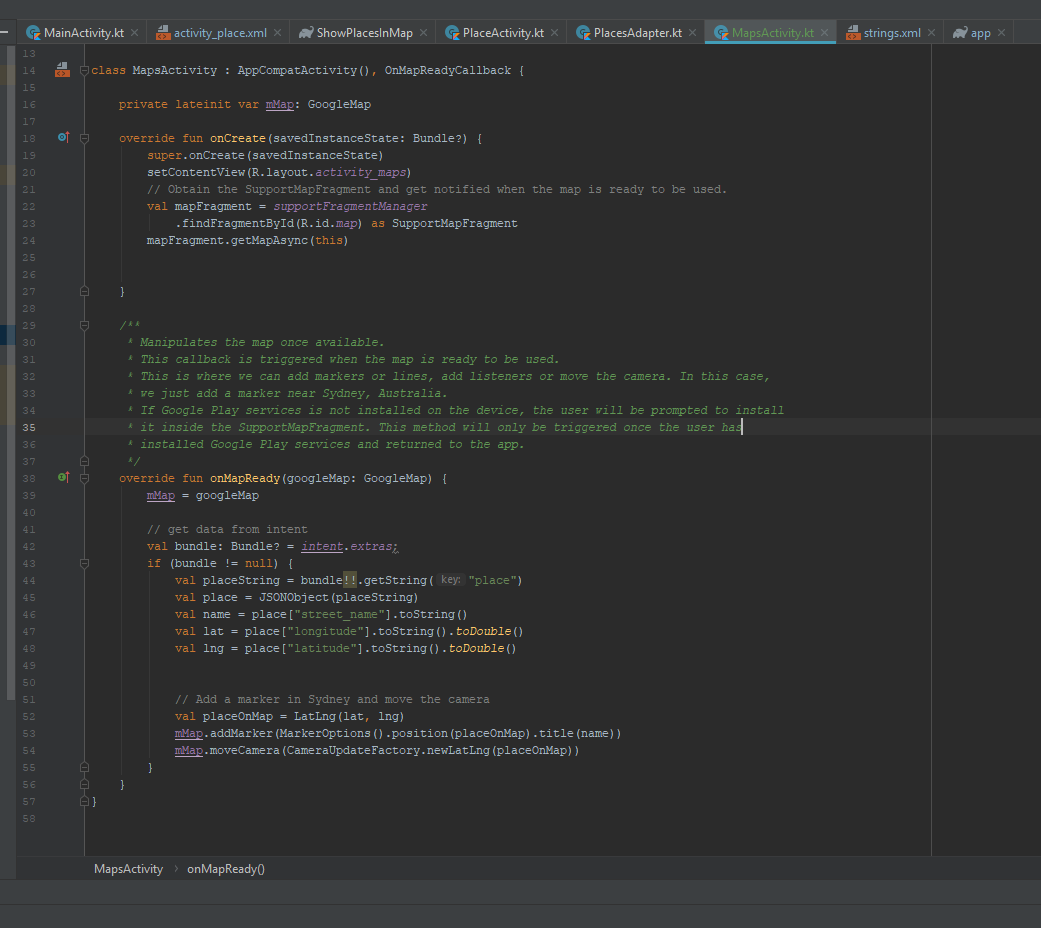
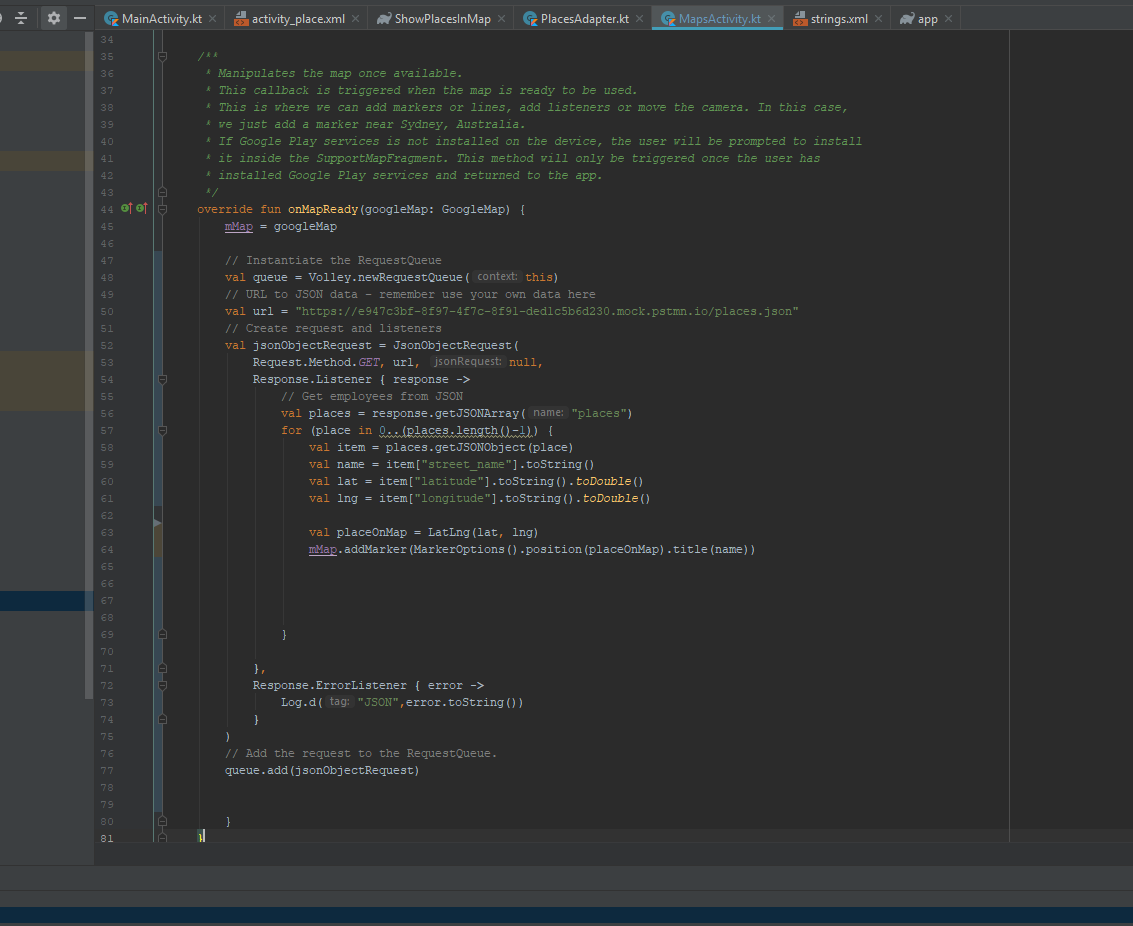
11th exercise ready for review again

diff --git a/ShowPlacesInMap/app/src/main/java/android/example/showplacesinmap/MapsActivity.kt b/ShowPlacesInMap/app/src/main/java/android/example/showplacesinmap/MapsActivity.kt
@@ -2,6 +2,11 @@ package android.example.showplacesinmap
 
 import android.support.v7.app.AppCompatActivity
 import android.os.Bundle
+import android.util.Log
+import com.android.volley.Request
+import com.android.volley.Response
+import com.android.volley.toolbox.JsonObjectRequest
+import com.android.volley.toolbox.Volley
 
 import com.google.android.gms.maps.CameraUpdateFactory
 import com.google.android.gms.maps.GoogleMap
@@ -9,6 +14,7 @@ import com.google.android.gms.maps.OnMapReadyCallback
 import com.google.android.gms.maps.SupportMapFragment
 import com.google.android.gms.maps.model.LatLng
 import com.google.android.gms.maps.model.MarkerOptions
+import kotlinx.android.synthetic.main.activity_main.*
 import org.json.JSONObject
 
 class MapsActivity : AppCompatActivity(), OnMapReadyCallback {
@@ -38,20 +44,39 @@ class MapsActivity : AppCompatActivity(), OnMapReadyCallback {
     override fun onMapReady(googleMap: GoogleMap) {
         mMap = googleMap
 
-        // get data from intent
-        val bundle: Bundle? = intent.extras;
-        if (bundle != null) {
-            val placeString = bundle!!.getString("place")
-            val place = JSONObject(placeString)
-            val name = place["street_name"].toString()
-            val lat = place["longitude"].toString().toDouble()
-            val lng = place["latitude"].toString().toDouble()
+        // Instantiate the RequestQueue
+        val queue = Volley.newRequestQueue(this)
+        // URL to JSON data - remember use your own data here
+        val url = "https://e947c3bf-8f97-4f7c-8f91-ded1c5b6d230.mock.pstmn.io/places.json"
+        // Create request and listeners
+        val jsonObjectRequest = JsonObjectRequest(
+            Request.Method.GET, url, null,
+            Response.Listener { response ->
+                // Get employees from JSON
+                val places = response.getJSONArray("places")
+                for (place in 0..(places.length()-1)) {
+                    val item = places.getJSONObject(place)
+                    val name = item["street_name"].toString()
+                    val lat = item["latitude"].toString().toDouble()
+                    val lng = item["longitude"].toString().toDouble()
+
+                    val placeOnMap = LatLng(lat, lng)
+                    mMap.addMarker(MarkerOptions().position(placeOnMap).title(name))
 
 
-            // Add a marker in Sydney and move the camera
-            val placeOnMap = LatLng(lat, lng)
-            mMap.addMarker(MarkerOptions().position(placeOnMap).title(name))
-            mMap.moveCamera(CameraUpdateFactory.newLatLng(placeOnMap))
+
+
+                }
+
+            },
+            Response.ErrorListener { error ->
+                Log.d("JSON",error.toString())
+            }
+        )
+        // Add the request to the RequestQueue.
+        queue.add(jsonObjectRequest)
+
+
         }
     }
-}
+
